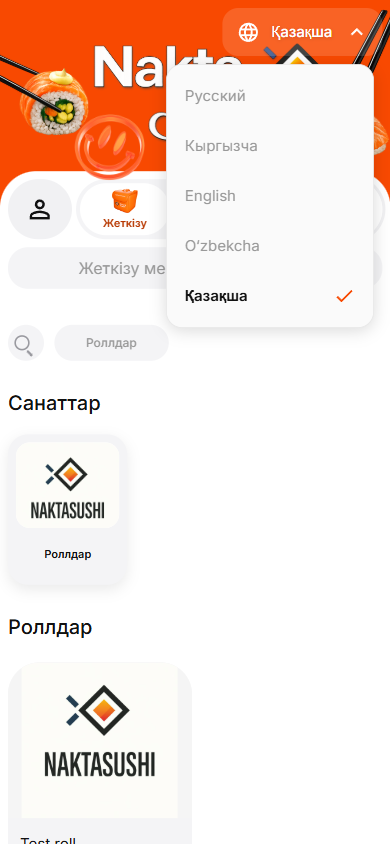
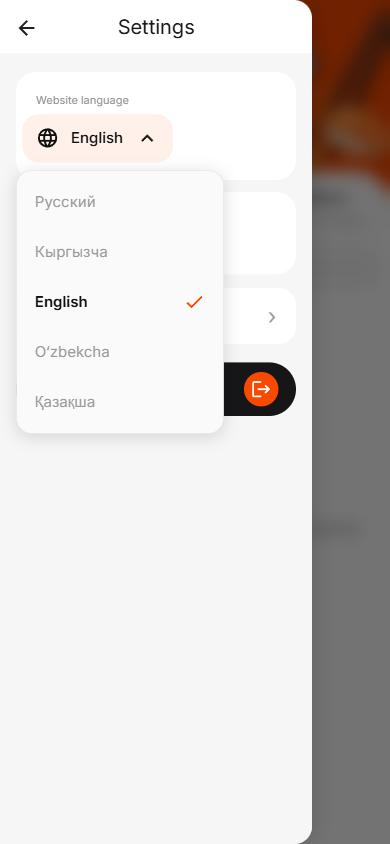
Automatically select the only city and keep language selection in account screens

diff --git a/app/components/Storefront.tsx b/app/components/Storefront.tsx
@@ -686,6 +686,8 @@ function StorefrontContent({ categorySlug }: { categorySlug?: string }) {
   );
   const [regionSlug, setRegionSlug] = useState(initialRegion);
   const [regionOptions, setRegionOptions] = useState<RegionOption[]>(defaultRegions);
+  const [regionsLoaded, setRegionsLoaded] = useState(false);
+  const canChooseCity = regionsLoaded && regionOptions.length > 1;
   const [selectedPickupLocationId, setSelectedPickupLocationId] = useState<number | null>(null);
   const selectedRegion = regionOptions.find((option) => option.slug === regionSlug);
   const pickupLocations = useMemo<PickupLocationOption[]>(() => {
@@ -883,6 +885,46 @@ function StorefrontContent({ categorySlug }: { categorySlug?: string }) {
     setSearchOpen(true);
   };
 
+  const chooseCity = useCallback((option: RegionOption, automatic = false) => {
+    const regionChanged = option.slug !== regionSlug;
+    const url = new URL(window.location.href);
+    url.searchParams.set("region", option.slug);
+    window.history.replaceState(window.history.state, "", url);
+    try {
+      window.localStorage.setItem(CITY_SELECTION_STORAGE_KEY, option.slug);
+    } catch {
+      // The city choice will still apply for the current visit.
+    }
+    setCity(option.name);
+    if (regionChanged) {
+      setCatalogSnapshot(null);
+      setStoryGroups([]);
+      setRegionalPromotions([]);
+      setAddress("");
+      setDeliveryLocation(null);
+      setCart([]);
+      setKitAdjustments({});
+      setPendingCartLine(null);
+      setUtensilsCount(1);
+      setNoUtensils(false);
+      setPickupLocationSelected(false);
+      setSelectedPickupLocationId(null);
+    }
+    setRegionSlug(option.slug);
+    setCityOpen(false);
+    setCityPickerOpen(false);
+    setAddressCityOpen(false);
+    // Resolving the current city must not close sign-in opened during loading.
+    if (!automatic || regionChanged) {
+      setCheckoutOpen(false);
+      setPhoneAuthOpen(false);
+      setCartKitOpen(false);
+      setDeliveryInfoOpen(false);
+      setPlacedOrder(null);
+      setSelected(null);
+    }
+  }, [regionSlug, setKitAdjustments, setUtensilsCount, setNoUtensils, setCheckoutOpen, setPhoneAuthOpen, setCartKitOpen, setPlacedOrder]);
+
   useEffect(() => {
     const controller = new AbortController();
     const baseUrl = STOREFRONT_API_URL;
@@ -890,13 +932,19 @@ function StorefrontContent({ categorySlug }: { categorySlug?: string }) {
     fetch(`${baseUrl}/regions`, { signal: controller.signal, cache: "no-store" })
       .then((response) => response.ok ? response.json() : Promise.reject(new Error("Regions request failed")))
       .then((data: RegionOption[]) => {
+        if (controller.signal.aborted) return;
         if (!Array.isArray(data) || data.length === 0) return;
         setRegionOptions(data);
+        if (data.length === 1) {
+          chooseCity(data[0], true);
+          return;
+        }
         const active = data.find((region) => region.slug === regionSlug) || data[0];
         setCity(active.name);
         if (active.slug !== regionSlug) setRegionSlug(active.slug);
       })
-      .catch(() => undefined);
+      .catch(() => undefined)
+      .finally(() => { if (!controller.signal.aborted) setRegionsLoaded(true); });
 
     let catalogRequestPending = false;
     let catalogRefreshQueued = false;
@@ -976,7 +1024,7 @@ function StorefrontContent({ categorySlug }: { categorySlug?: string }) {
       document.removeEventListener("visibilitychange", refreshCatalog);
       controller.abort();
     };
-  }, [regionSlug]);
+  }, [regionSlug, chooseCity]);
 
   useEffect(() => {
     const updateSchedule = () => setScheduleTimestamp(Date.now());
@@ -1080,7 +1128,10 @@ function StorefrontContent({ categorySlug }: { categorySlug?: string }) {
   }, [initialRegion]);
 
   useEffect(() => {
+    let cancelled = false;
     const checkStoredCity = () => {
+      if (cancelled) return;
+      if (!canChooseCity) { setCityPickerOpen(false); return; }
       try {
         const selectedCity = window.localStorage.getItem(CITY_SELECTION_STORAGE_KEY);
         setCityPickerOpen(!regionOptions.some((item) => item.slug === selectedCity));
@@ -1089,7 +1140,8 @@ function StorefrontContent({ categorySlug }: { categorySlug?: string }) {
       }
     };
     queueMicrotask(checkStoredCity);
-  }, [regionOptions]);
+    return () => { cancelled = true; };
+  }, [canChooseCity, regionOptions]);
 
   useEffect(() => {
     queueMicrotask(() => {
@@ -1225,43 +1277,6 @@ function StorefrontContent({ categorySlug }: { categorySlug?: string }) {
     }, 1_000);
     return () => window.clearInterval(timer);
   }, [phoneCodeRetryAfter]);
-
-  const chooseCity = (option: RegionOption) => {
-    const regionChanged = option.slug !== regionSlug;
-    const url = new URL(window.location.href);
-    url.searchParams.set("region", option.slug);
-    window.history.replaceState(window.history.state, "", url);
-    try {
-      window.localStorage.setItem(CITY_SELECTION_STORAGE_KEY, option.slug);
-    } catch {
-      // The city choice will still apply for the current visit.
-    }
-    setCity(option.name);
-    if (regionChanged) {
-      setCatalogSnapshot(null);
-      setStoryGroups([]);
-      setRegionalPromotions([]);
-      setAddress("");
-      setDeliveryLocation(null);
-      setCart([]);
-      setKitAdjustments({});
-      setPendingCartLine(null);
-      setUtensilsCount(1);
-      setNoUtensils(false);
-      setPickupLocationSelected(false);
-      setSelectedPickupLocationId(null);
-    }
-    setRegionSlug(option.slug);
-    setCityOpen(false);
-    setCityPickerOpen(false);
-    setAddressCityOpen(false);
-    setCheckoutOpen(false);
-    setPhoneAuthOpen(false);
-    setCartKitOpen(false);
-    setDeliveryInfoOpen(false);
-    setPlacedOrder(null);
-    setSelected(null);
-  };
 
   const openProduct = (product: Product, historyMode: "push" | "replace" = "push") => {
     if (product.available === false) return;
@@ -2084,7 +2099,7 @@ function StorefrontContent({ categorySlug }: { categorySlug?: string }) {
 
   return (
     <div className="site">
-      {cityPickerOpen ? (
+      {canChooseCity && cityPickerOpen ? (
         <div className="city-picker-overlay" role="dialog" aria-modal="true" aria-labelledby="city-picker-title">
           <section className="city-picker-modal">
             <button
@@ -2100,7 +2115,6 @@ function StorefrontContent({ categorySlug }: { categorySlug?: string }) {
                 <button key={option.slug} type="button" onClick={() => chooseCity(option)}>{t(option.name)}</button>
               ))}
             </div>
-            <div className="profile-language-guest"><SiteLanguageSelector /></div>
           </section>
         </div>
       ) : null}
@@ -2110,7 +2124,6 @@ function StorefrontContent({ categorySlug }: { categorySlug?: string }) {
           <img src="/desktop-header-20260726-v3.png" alt={t("Накта суши")} />
         </picture>
         <img className="brand-smile" src={encodeURI("/смайлик.webp")} alt="" aria-hidden="true" />
-        <div className="hero-language"><SiteLanguageSelector light /></div>
         <a className="download-app download-app-nakta" href="/support" aria-label={t("Скачайте приложение Накта суши")}>
           <span className="app-badge-logo" aria-hidden="true"><img src="/favicon.jpg" alt="" /></span>
           <strong>{t("Скачайте")}<br />{t("приложение")}</strong>
@@ -2126,8 +2139,8 @@ function StorefrontContent({ categorySlug }: { categorySlug?: string }) {
           </div>
           <div className="order-location-bar">
             <div className="city-select" ref={citySelectRef}>
-              <button className="city-button" aria-expanded={cityOpen} aria-haspopup="listbox" onClick={() => setCityOpen((current) => !current)}>{t(city)} <span className={`city-chevron${cityOpen ? " open" : ""}`} aria-hidden="true" /></button>
-              {cityOpen ? <div className="city-dropdown" role="listbox" aria-label={t("Город")}>
+              <button className="city-button" disabled={!canChooseCity} aria-expanded={canChooseCity ? cityOpen : undefined} aria-haspopup={canChooseCity ? "listbox" : undefined} onClick={() => setCityOpen((current) => !current)}>{t(city)} {canChooseCity ? <span className={`city-chevron${cityOpen ? " open" : ""}`} aria-hidden="true" /> : null}</button>
+              {canChooseCity && cityOpen ? <div className="city-dropdown" role="listbox" aria-label={t("Город")}>
                 {regionOptions.filter((option) => option.name !== city).map((option) => <button key={option.slug} role="option" aria-selected={city === option.name} onClick={() => chooseCity(option)}>{t(option.name)}</button>)}
               </div> : null}
             </div>
@@ -2449,8 +2462,8 @@ function StorefrontContent({ categorySlug }: { categorySlug?: string }) {
               {deliveryType === "pickup" ? <>
                 <h2>{t("Самовывоз")}</h2><p>{t("Выберите точку для самовывоза")}<br />{t("из доступных в списке или на карте")}</p>
                 <div className="address-city-select">
-                  <button className="address-input muted" type="button" aria-expanded={addressCityOpen} onClick={() => setAddressCityOpen((current) => !current)}>{addressCityOpen ? t("Выберите город") : city}<span className={`city-chevron${addressCityOpen ? " open" : ""}`} aria-hidden="true" /></button>
-                  {addressCityOpen ? <div className="address-city-options" role="listbox" aria-label={t("Выберите город")}>
+                  <button className="address-input muted" type="button" disabled={!canChooseCity} aria-expanded={canChooseCity ? addressCityOpen : undefined} onClick={() => setAddressCityOpen((current) => !current)}>{canChooseCity && addressCityOpen ? t("Выберите город") : t(city)}{canChooseCity ? <span className={`city-chevron${addressCityOpen ? " open" : ""}`} aria-hidden="true" /> : null}</button>
+                  {canChooseCity && addressCityOpen ? <div className="address-city-options" role="listbox" aria-label={t("Выберите город")}>
                     {regionOptions.map((option) => <button key={option.slug} type="button" role="option" aria-selected={option.slug === regionSlug} onClick={() => chooseCity(option)}>{t(option.name)}</button>)}
                   </div> : null}
                 </div>
@@ -2477,8 +2490,8 @@ function StorefrontContent({ categorySlug }: { categorySlug?: string }) {
               </> : <>
                 <h2>{t("Адрес доставки")}</h2><p>{t("Введите адрес для доставки курьером,")}<br />{t("выберите подсказку или точку на карте")}</p>
                 <div className="address-city-select">
-                  <button className="address-input muted" type="button" aria-expanded={addressCityOpen} onClick={() => setAddressCityOpen((current) => !current)}>{addressCityOpen ? t("Выберите город") : city}<span className={`city-chevron${addressCityOpen ? " open" : ""}`} aria-hidden="true" /></button>
-                  {addressCityOpen ? <div className="address-city-options" role="listbox" aria-label={t("Выберите город")}>
+                  <button className="address-input muted" type="button" disabled={!canChooseCity} aria-expanded={canChooseCity ? addressCityOpen : undefined} onClick={() => setAddressCityOpen((current) => !current)}>{canChooseCity && addressCityOpen ? t("Выберите город") : t(city)}{canChooseCity ? <span className={`city-chevron${addressCityOpen ? " open" : ""}`} aria-hidden="true" /> : null}</button>
+                  {canChooseCity && addressCityOpen ? <div className="address-city-options" role="listbox" aria-label={t("Выберите город")}>
                     {regionOptions.map((option) => <button key={option.slug} type="button" role="option" aria-selected={option.slug === regionSlug} onClick={() => chooseCity(option)}>{t(option.name)}</button>)}
                   </div> : null}
                 </div>

diff --git a/app/components/site-language.css b/app/components/site-language.css
@@ -1,10 +1,7 @@
-.hero-language { position: absolute; z-index: 3; top: 132px; right: max(16px, calc((100vw - 1280px) / 2)); }
 .site-language-trigger { display: inline-flex; align-items: center; justify-content: center; gap: 12px; min-height: 48px; max-width: 100%; padding: 0 14px; color: #111; background: transparent; border: 0; border-radius: 16px; font-family: inherit; font-size: 15px; font-weight: 500; line-height: 22px; white-space: nowrap; }
 .site-language-trigger svg { display: block; flex: 0 0 auto; }
 .site-language-trigger:hover { background: #fff0e9; }
 .site-language-trigger:focus-visible, .site-language-option:focus-visible { outline: 2px solid #f84901; outline-offset: 2px; }
-.site-language-trigger.site-language-light { color: #fff; text-shadow: 0 1px 4px rgba(0,0,0,.18); }
-.site-language-trigger.site-language-light:hover { background: rgba(255,255,255,.14); }
 .site-language-positioner { z-index: 210; }
 .site-language-menu { width: 208px; max-width: calc(100vw - 32px); padding: 6px 0; border: 1px solid #e7e7e7; border-radius: 16px; background: #fafafa; box-shadow: 0 3px 16px rgba(0,0,0,.14); color: #111; outline: none; }
 .site-language-option { display: flex; align-items: center; gap: 10px; width: 100%; min-height: 50px; padding: 0 18px; border: 0; background: transparent; color: #999; font-family: inherit; font-size: 15px; line-height: 22px; text-align: left; }
@@ -16,4 +13,3 @@
 .profile-language-field .site-language-trigger > span { display: inline; color: inherit; font-size: 15px; }
 .profile-language-field .site-language-trigger { margin-top: 4px; margin-left: -14px; }
 .profile-language-guest, .phone-auth-language { display: flex; justify-content: center; padding: 12px 0; }
-@media (max-width: 720px) { .hero-language { top: 8px; right: 8px; } }

diff --git a/app/components/SiteLanguageSelector.tsx b/app/components/SiteLanguageSelector.tsx
@@ -7,13 +7,13 @@ import { useSiteLanguage } from "../lib/site-i18n/react";
 import { setSiteLanguage, siteLanguages, translateSite as t } from "../lib/site-i18n/store";
 import "./site-language.css";
 
-export function SiteLanguageSelector({ light = false }: { light?: boolean }) {
+export function SiteLanguageSelector() {
   const language = useSiteLanguage();
   const [open, setOpen] = useState(false);
   const selectedRef = useRef<HTMLButtonElement>(null);
   const selected = siteLanguages.find(item => item.code === language)!;
   return <Popover.Root open={open} onOpenChange={setOpen}>
-    <Popover.Trigger type="button" className={`site-language-trigger${light ? " site-language-light" : ""}`} aria-label={`${t("Язык сайта")}: ${selected.label}`}>
+    <Popover.Trigger type="button" className="site-language-trigger" aria-label={`${t("Язык сайта")}: ${selected.label}`}>
       <Icon path={mdiWeb} size={0.96} aria-hidden="true" /><span lang={selected.code}>{selected.label}</span><Icon path={open ? mdiChevronUp : mdiChevronDown} size={1} aria-hidden="true" />
     </Popover.Trigger>
     <Popover.Portal><Popover.Positioner side="top" align="center" sideOffset={8} collisionPadding={16} className="site-language-positioner">

diff --git a/app/globals.css b/app/globals.css
@@ -103,6 +103,7 @@ a { color: inherit; text-decoration: none; }
 .city-select { position: relative; z-index: 32; height: 52px; flex: 0 0 auto; }
 .city-button { height: 52px; background: transparent; min-width: 130px; text-align: left; padding: 0 18px; font-weight: 600; font-size: 18px; }
 .city-button:focus { outline: 0; }
+.city-button:disabled, .address-city-select .address-input:disabled { cursor: default; }
 .city-chevron { display: inline-block; width: 8px; height: 8px; margin: 0 0 4px 10px; border-right: 1.5px solid currentColor; border-bottom: 1.5px solid currentColor; transform: rotate(45deg); }
 .city-chevron.open { margin-bottom: -1px; transform: rotate(225deg); }
 .city-dropdown { position: fixed; z-index: 60; width: 286px; margin-top: 12px; padding: 0; overflow: hidden; border-radius: 0 0 18px 18px; background: #fff; box-shadow: 0 12px 24px rgba(0,0,0,.12); }

diff --git a/docs/site-languages.md b/docs/site-languages.md
@@ -1,6 +1,8 @@
 # Выбор языка на сайте
 
-Меню повторяет выбор языка в приложении: значок глобуса, текущее название языка, стрелка и пять пунктов в порядке «Русский», «Кыргызча», «English», «O‘zbekcha», «Қазақша». Выбранный пункт выделен текстом и оранжевой отметкой. Меню доступно в шапке, выборе города, форме входа и настройках профиля.
+Меню повторяет выбор языка в приложении: значок глобуса, текущее название языка, стрелка и пять пунктов в порядке «Русский», «Кыргызча», «English», «O‘zbekcha», «Қазақша». Выбранный пункт выделен текстом и оранжевой отметкой. Меню доступно в форме входа и панели профиля. В шапке сайта и окне выбора города его нет.
+
+Выбор города открывается после загрузки доступных городов с сервера, если их несколько и ещё нет сохранённого выбора. Единственный доступный город выбирается и сохраняется автоматически, без вспышки окна при загрузке. В шапке и форме адреса у единственного города нет стрелки или раскрывающегося списка.
 
 Первое открытие использует первый поддерживаемый язык браузера; если поддерживаемых языков нет, используется английский, как в приложении. Ручной выбор сохраняется в `nakta.language.v1` и синхронизируется между вкладками. Язык админки хранится отдельно. Переключение обновляет интерфейс без перезагрузки; корзина, адрес, телефон и исходные данные каталога сохраняются.
 
@@ -11,6 +13,8 @@
 - Production build и линтер изменённых компонентов.
 - Шесть тестов словарей сайта и админки: поддерживаемые локали, полнота переводов и сохранение параметров.
 - В браузере на ПК: все пять языков, английский по системной локали, кыргызский после повторного открытия с английской системной локалью, неизменность корзины и введённого телефона при переключении.
-- На экране 390 × 844: казахский по системной локали, меню целиком в пределах экрана; закрытие меню клавишей Escape проверено на ПК.
+- При медленном ответе сервера и одном городе окно выбора не появлялось даже на мгновение; открытая форма входа и введённый телефон сохранились.
+- Единственный Ош автоматически заменил сохранённый Бишкек. При двух доступных городах выбор сохранился и не запрашивался после перезагрузки.
+- На экране 390 × 844 проверены смена языка в настройках профиля и отсутствие окна выбора при единственном городе. На ПК проверены смена языка в форме входа и закрытие меню клавишей Escape. В шапке и окне выбора города переключателя языка нет.
 
 Браузерная проверка использовала тестовые ответы каталога и регионов. SMS и заказы не отправлялись. Ошибок JavaScript не обнаружено. Скриншоты: `screenshots/site-language-menu-desktop.png` и `screenshots/site-language-menu-mobile.png`.
